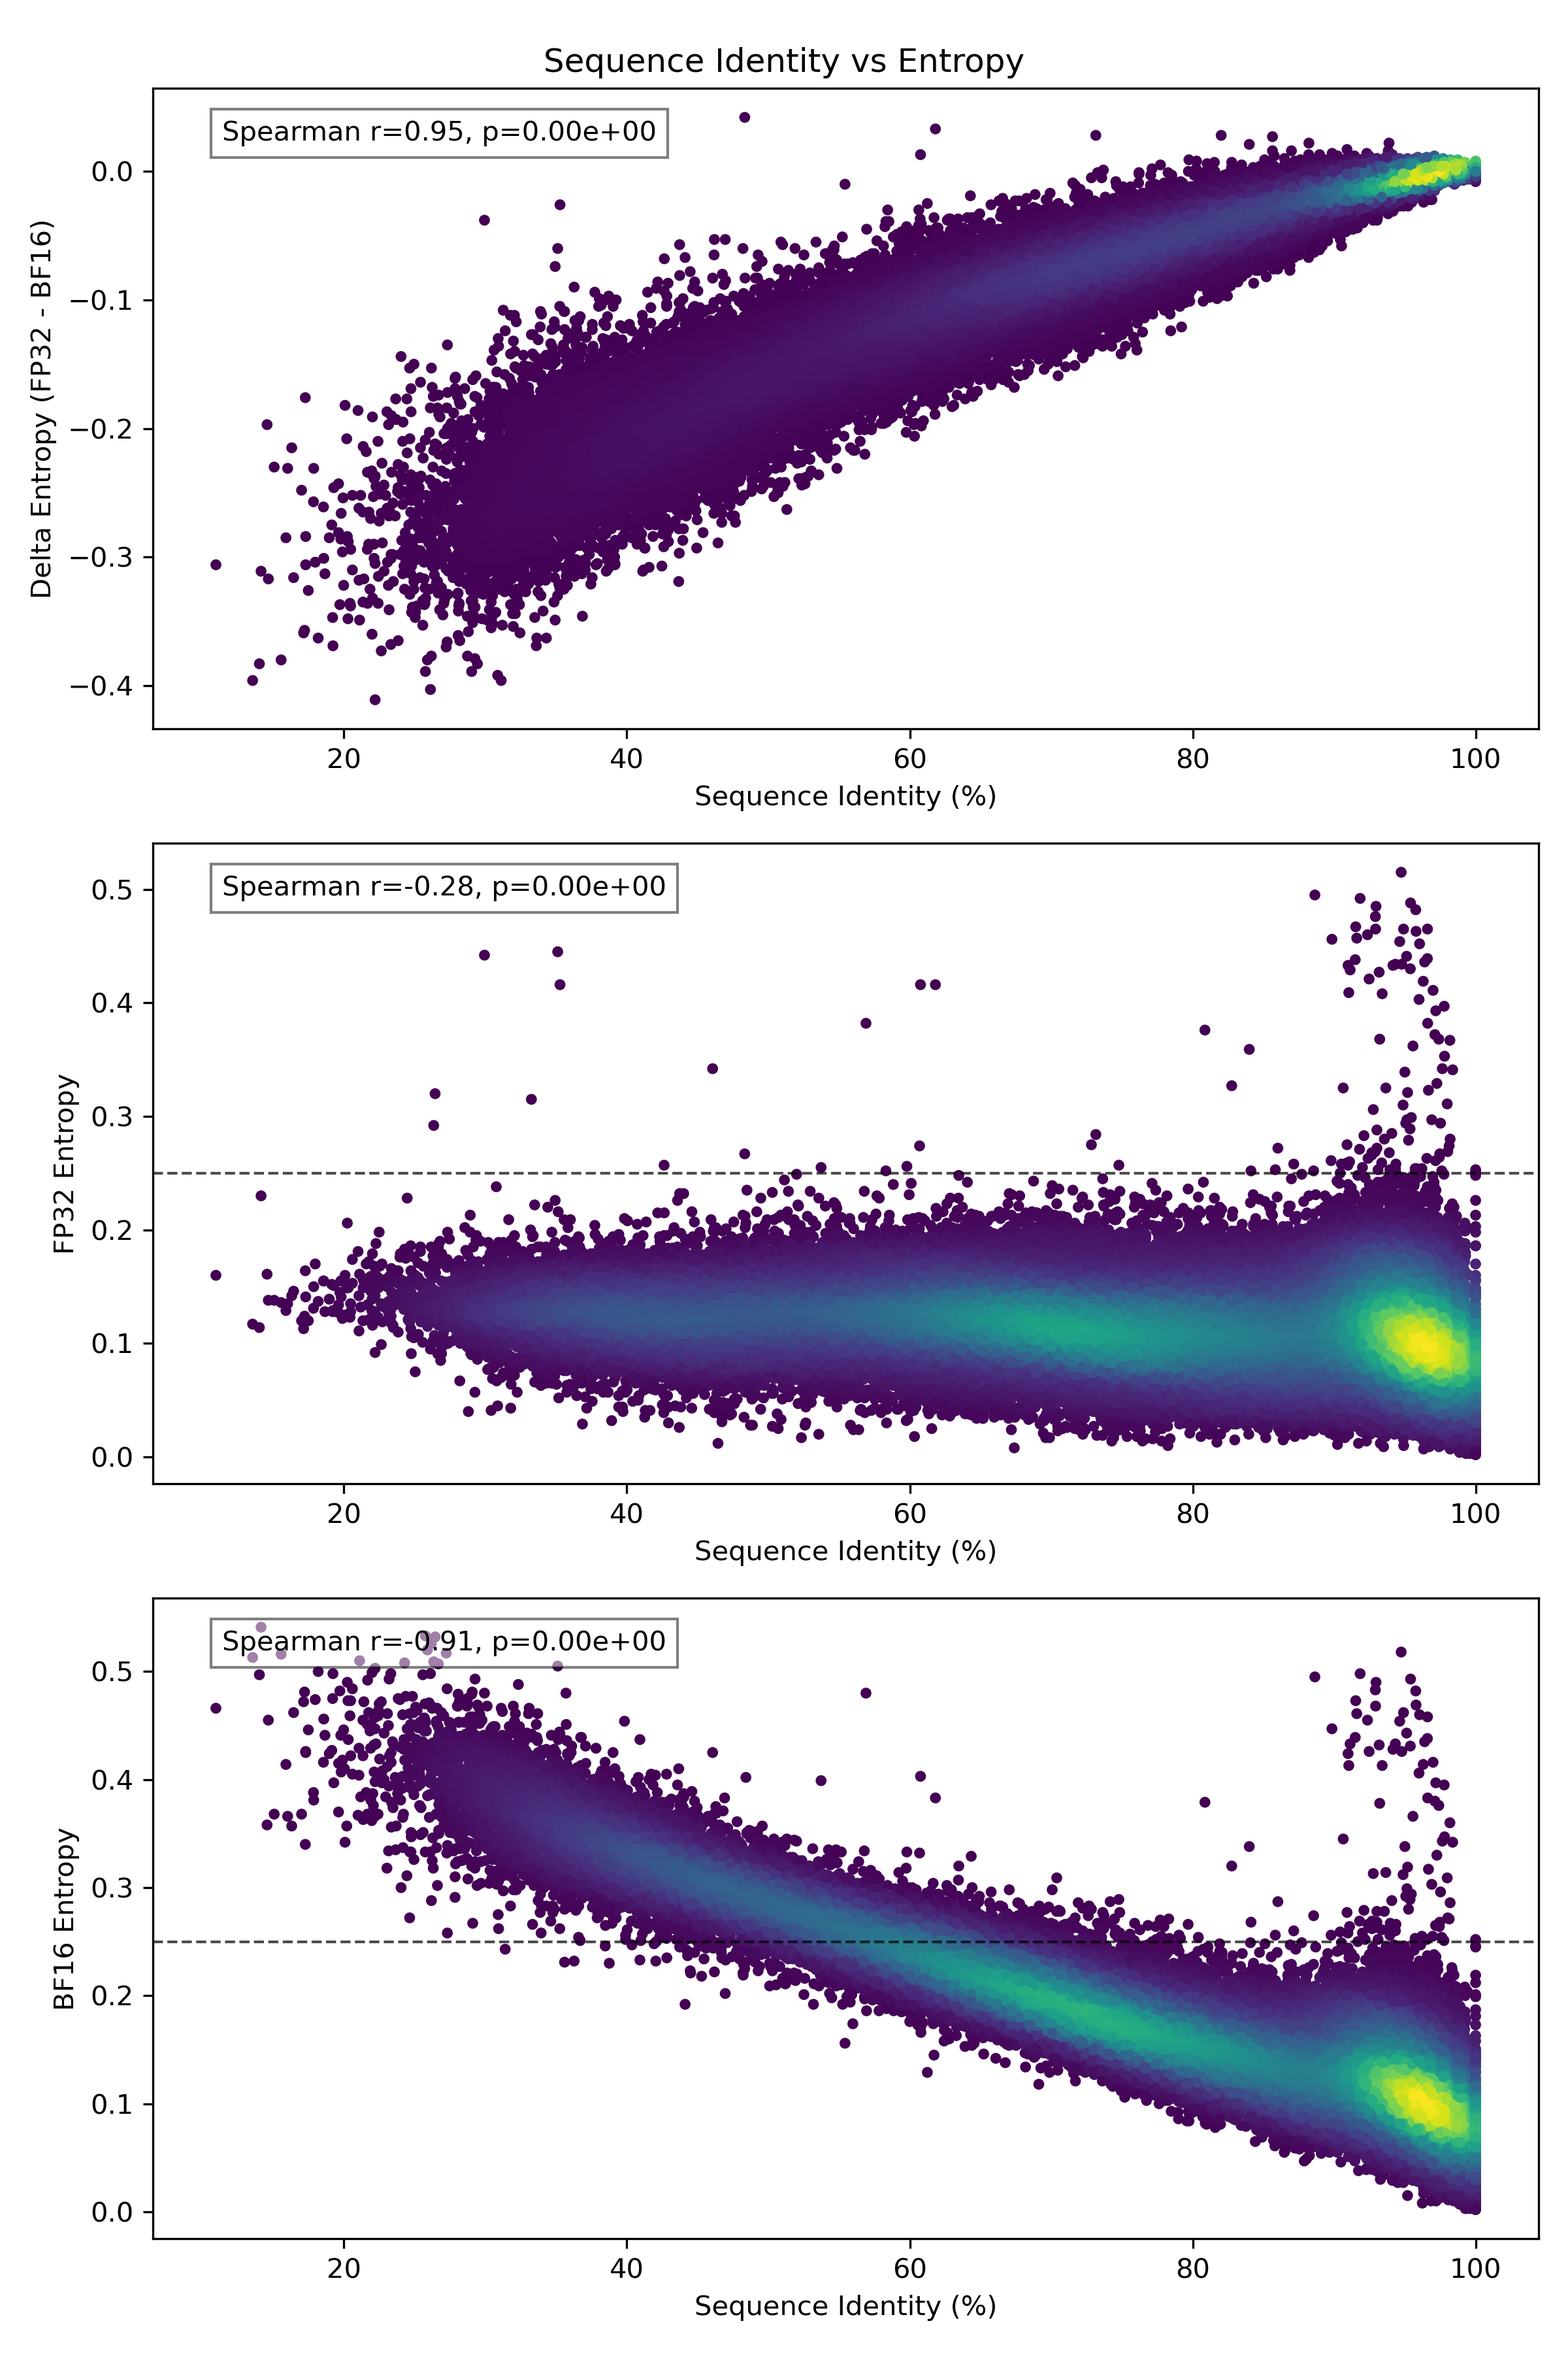
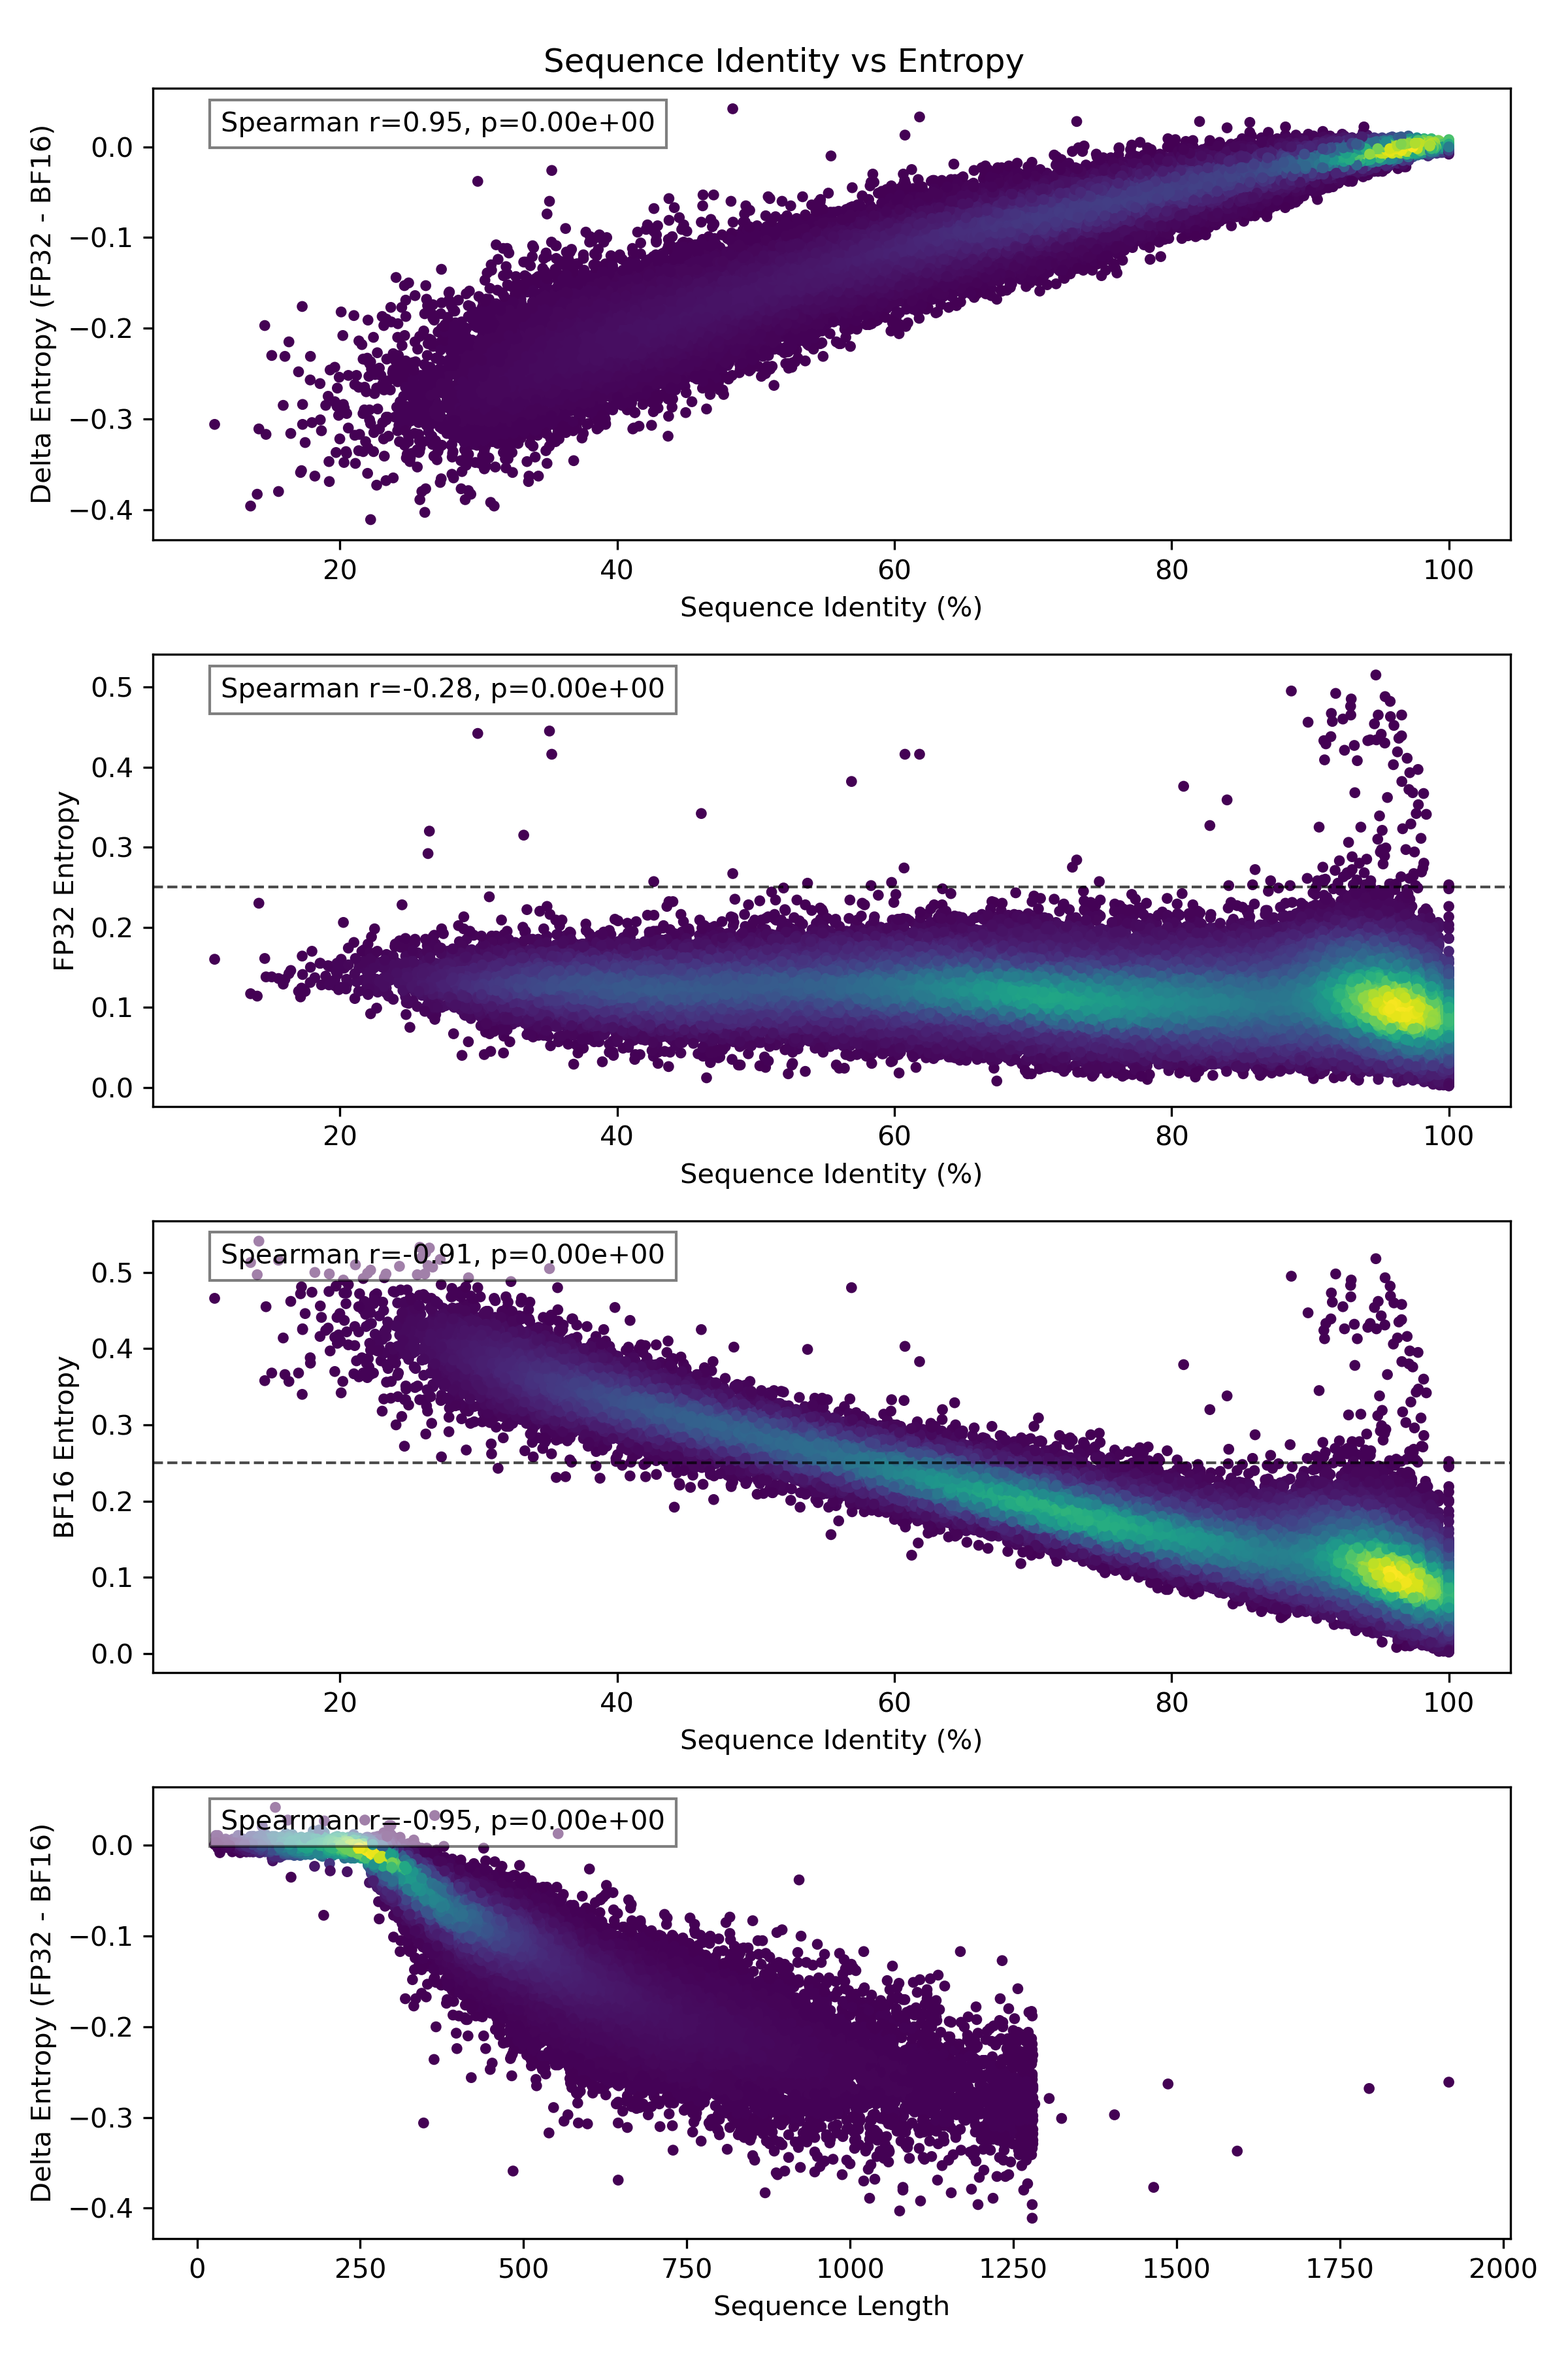
Added plotting of the lengths' correlation with delta of entropies.

diff --git a/sandbox/eval_seq_id.py b/sandbox/eval_seq_id.py
@@ -70,9 +70,13 @@ fp32_sequences, fp32_entropies = get_sequences(FP32_FASTA_PATH)
 bf16_sequences, bf16_entropies = get_sequences(BF16_FASTA_PATH)
 
 identities = []
+lengths = []
 fp32_entropies_list = []
 bf16_entropies_list = []
 delta_entropies = []
+
+num_in_tail = 0
+num_in_tail_delta_entropy = 0
 
 for key in fp32_sequences.keys():
     
@@ -83,23 +87,42 @@ for key in fp32_sequences.keys():
 
     identity = matches/len(fp32_seq)*100
     identities.append(identity)
+    lengths.append(len(fp32_seq))
     fp32_entropies_list.append(fp32_entropies[key])
     bf16_entropies_list.append(bf16_entropies[key])
-    delta_entropies.append(fp32_entropies[key] - bf16_entropies[key])
+    delta_entropy = fp32_entropies[key] - bf16_entropies[key]
+    delta_entropies.append(delta_entropy)
+
+    if(identity < 90):
+        num_in_tail += 1
+
+    if(delta_entropy < -0.1):
+        num_in_tail_delta_entropy += 1
+
+print(f"Number of sequences in tail (identity < 90%): {num_in_tail}")
+print(f"Number of sequences in tail (delta entropy < -0.1): {num_in_tail_delta_entropy}")
 
 fp32_res = stats.spearmanr(identities, fp32_entropies_list)
+print(f"Spearman correlation between identities and FP32 entropies:")
 print(fp32_res.statistic, fp32_res.pvalue)
 
+print(f"Spearman correlation between identities and BF16 entropies:")
 bf16_res = stats.spearmanr(identities, bf16_entropies_list)
 print(bf16_res.statistic, bf16_res.pvalue)
 
+print(f"Spearman correlation between FP32 and BF16 entropies:")
 entropies_res = stats.spearmanr(fp32_entropies_list, bf16_entropies_list)
 print(entropies_res.statistic, entropies_res.pvalue)
 
+print(f"Spearman correlation between identities and delta entropies:")
 delta_entropies_res = stats.spearmanr(identities, delta_entropies)
 print(delta_entropies_res.statistic, delta_entropies_res.pvalue)
 
-fig, ax = plt.subplots(3, 1, figsize=(8, 12))
+print(f"Spearman correlation between delta entropies and sequence lengths:")
+delta_length_res = stats.spearmanr(delta_entropies, lengths)
+print(delta_length_res.statistic, delta_length_res.pvalue)
+
+fig, ax = plt.subplots(4, 1, figsize=(8, 12))
 
 plot_scatter(
     ax[0], 
@@ -131,6 +154,16 @@ plot_scatter(
     spearman_rho=bf16_res.statistic, 
     pvalue=bf16_res.pvalue,
     hline=0.25
+)
+
+plot_scatter(
+    ax[3],
+    lengths, 
+    delta_entropies, 
+    xlabel='Sequence Length', 
+    ylabel='Delta Entropy (FP32 - BF16)', 
+    spearman_rho=delta_length_res.statistic,
+    pvalue=delta_length_res.pvalue
 )
 
 plt.suptitle('Sequence Identity vs Entropy')
